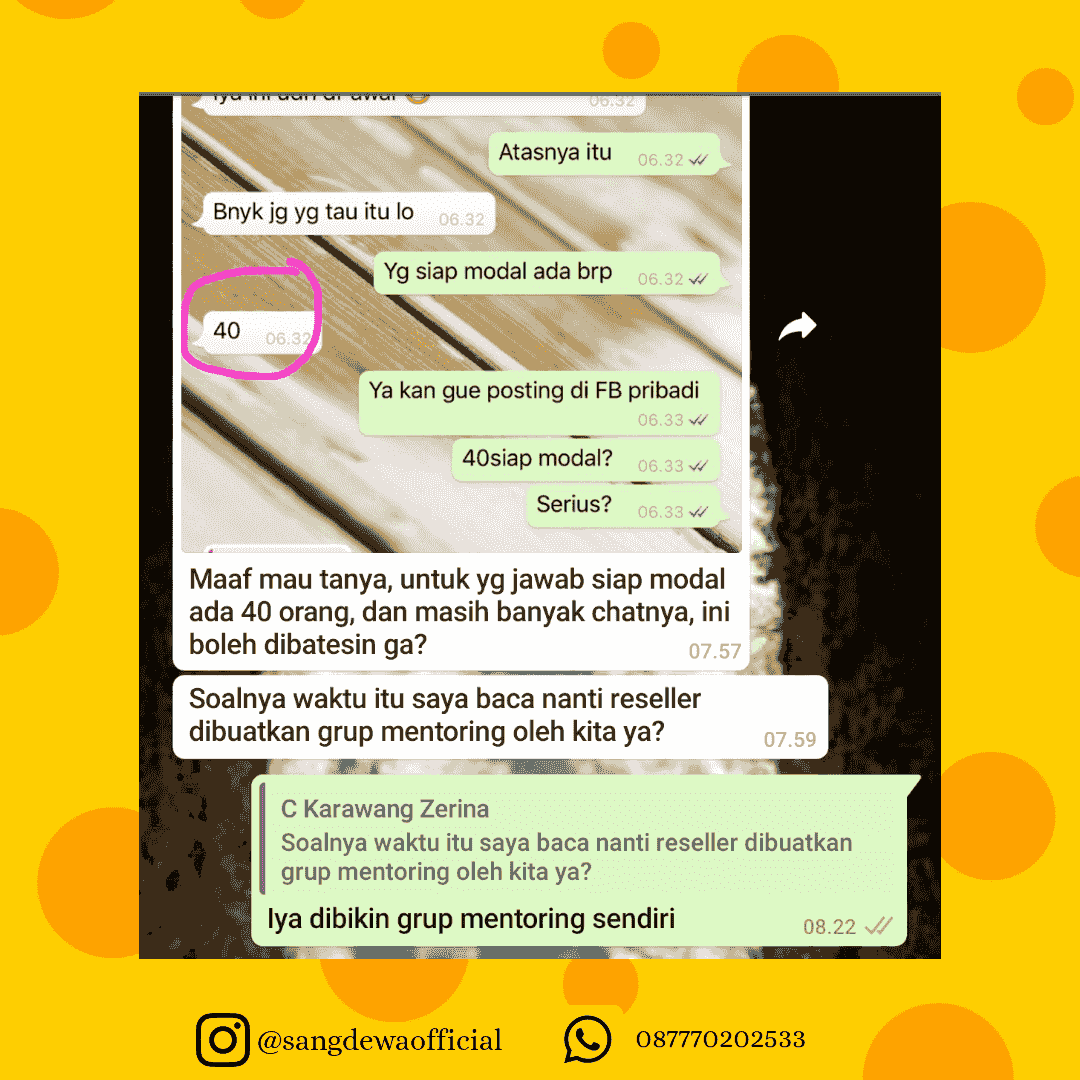
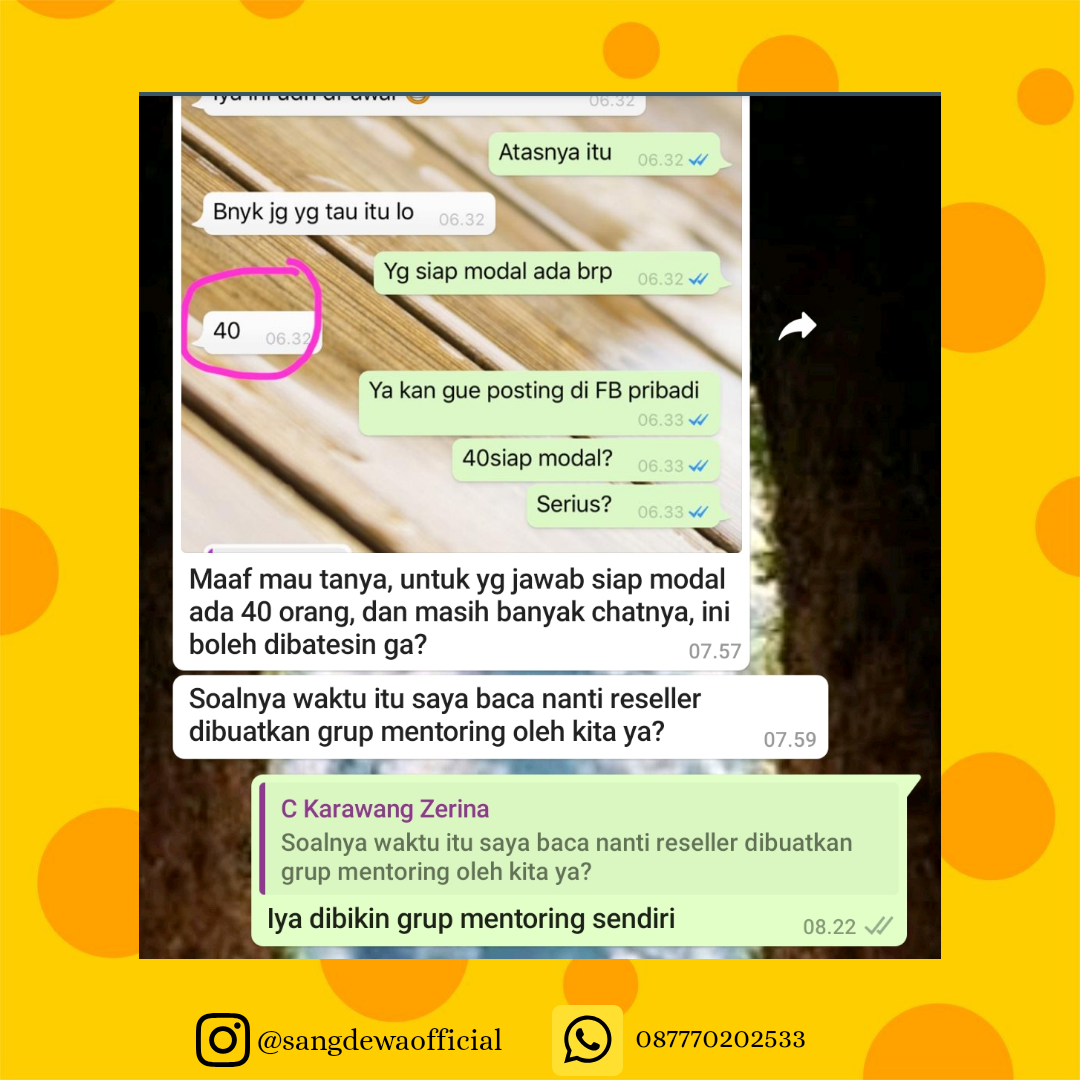
update image

diff --git a/produck.html b/produck.html
@@ -9,15 +9,13 @@
     <link rel="stylesheet" href="css/style.css">
     <link rel="stylesheet" href="css/all.css">
     <link rel="stylesheet" href="css/responsive.css">
-    <script>
-        let testimoni = ['20191023_055524_0000.png','20191023_083743_0000.png', '20191023_083847_0000.png', '20191027_070100_0000.png', '20191126_055618_0000.png', '20191126_055635_0000.png', '20191126_055804_0000.png', '20191126_055913_0000.png', '20191126_060241_0000.png', '20191126_060318_0000.png', '20191126_060338_0000.png', '20191126_062952_0000.png', '20191126_063148_0000.png', '20191126_213524_0000.png']
-    </script>
+    
 </head>
 <body>
     <nav class="navbar navbar-expand-lg navbar-dark fixed-top">
         <div class="container">
             <a class="navbar-brand" href="#">
-                <img src="image/Dewa-Snack.png" alt="">
+                <img src="image/Dewa-Snack.webp" alt="">
             </a>
             <button class="navbar-toggler" type="button" data-toggle="collapse" data-target="#navbarTogglerDemo02" aria-controls="navbarTogglerDemo02" aria-expanded="false" aria-label="Toggle navigation">
             <span class="navbar-toggler-icon"></span>
@@ -45,7 +43,7 @@
         <div class="ft-produck" id="switchbanner">
             
         </div>
-        <img src="image/table.png" class="tableproduck">
+        <img src="image/table.webp" class="tableproduck">
     </div>
 
     <div class="describe-produck">
@@ -74,7 +72,7 @@
                     </ul>
                 </div>
                 <div class="col-sm-5 image-descrip-product">
-                    <img src="image/product_sangdewa3.png" alt="">
+                    <img src="image/product_sangdewa3.webp" alt="">
                 </div>
             </div>
         </div>
@@ -144,7 +142,7 @@
                     </ul>
                 </div>
                 <div class="col-sm-5 image-descrip-product">
-                    <img src="image/tellaSparta.png" alt="">
+                    <img src="image/tellaSparta.webp" alt="">
                 </div>
             </div>
         </div>
@@ -161,25 +159,25 @@
                 </div>
                 <div class="col-sm-3">
                     <div class="bungkus">
-                        <img class="mx-auto text-center" src="image/B.png" alt="">
+                        <img class="mx-auto text-center" src="image/B.webp" alt="">
                     </div>
                     <p class="mx-auto text-center">SPARTAQUE</p>
                 </div>
                 <div class="col-sm-3">
                     <div class="bungkus">
-                        <img class="mx-auto text-center" src="image/C.png" alt="">
+                        <img class="mx-auto text-center" src="image/C.webp" alt="">
                     </div>
                     <p class="mx-auto text-center">SPARTA HOT SWEET</p>
                 </div>
                 <div class="col-sm-3">
                     <div class="bungkus">
-                        <img class="mx-auto text-center" src="image/A.png" alt="">
+                        <img class="mx-auto text-center" src="image/A.webp" alt="">
                     </div>
                     <p class="mx-auto text-center">SWEET SPARTA</p>
                 </div>
                 <div class="col-sm-3">
                     <div class="bungkus">
-                        <img class="mx-auto text-center" src="image/D.png" alt="">
+                        <img class="mx-auto text-center" src="image/D.webp" alt="">
                     </div>
                     <p class="mx-auto text-center">HOT SPARTA</p>
                 </div>
@@ -211,10 +209,10 @@
             if(!x.matches){
                 document.getElementById("switchbanner").innerHTML = `
                 <div class="d-flex justify-content-center container">
-                    <img src="image/D2.png" alt="" class="img-produck">
-                    <img src="image/D1.png" alt="" class="img-produck">
-                    <img src="image/D3.png" alt="" class="img-produck">
-                    <img src="image/D4.png" alt="" class="img-produck">
+                    <img src="image/D2.webp" alt="" class="img-produck">
+                    <img src="image/D1.webp" alt="" class="img-produck">
+                    <img src="image/D3.webp" alt="" class="img-produck">
+                    <img src="image/D4.webp" alt="" class="img-produck">
                 </div>
                 `;
             }
@@ -223,16 +221,16 @@
                 <div id="carouselExampleIndicators" class="carousel slide" data-ride="carousel">
                     <div class="carousel-inner">
                         <div class="carousel-item active">
-                            <img class="d-block w-100" src="image/D2.png" alt="First slide">
+                            <img class="d-block w-100" src="image/D2.webp" alt="First slide">
                         </div>
                         <div class="carousel-item">
-                            <img class="d-block w-100" src="image/D1.png" alt="Second slide">
+                            <img class="d-block w-100" src="image/D1.webp" alt="Second slide">
                         </div>
                         <div class="carousel-item">
-                            <img class="d-block w-100" src="image/D3.png" alt="Third slide">
+                            <img class="d-block w-100" src="image/D3.webp" alt="Third slide">
                         </div>
                         <div class="carousel-item">
-                            <img class="d-block w-100" src="image/D4.png" alt="Third slide">
+                            <img class="d-block w-100" src="image/D4.webp" alt="Third slide">
                         </div>
                     </div>
                     <a class="carousel-control-prev" href="#carouselExampleIndicators" role="button" data-slide="prev">

diff --git a/reseller.html b/reseller.html
@@ -17,7 +17,7 @@
     <nav class="navbar navbar-expand-lg navbar-dark fixed-top">
         <div class="container">
             <a class="navbar-brand" href="#">
-                <img src="image/Dewa-Snack.png" alt="">
+                <img src="image/Dewa-Snack.webp" alt="">
             </a>
             <button class="navbar-toggler" type="button" data-toggle="collapse" data-target="#navbarTogglerDemo02" aria-controls="navbarTogglerDemo02" aria-expanded="false" aria-label="Toggle navigation">
             <span class="navbar-toggler-icon"></span>
@@ -63,7 +63,7 @@
                         if(!x.matches){
                             document.getElementById("ganti").innerHTML = `
                                 <div class="col-sm-6 pt-5 pb-5" id="img-describe">
-                                    <img src="image/2.png" alt="">
+                                    <img src="image/2.webp" alt="">
                                 </div>
                                 <div class="col-sm-6 pt-5 pb-5">
                                     <h2>SNACK SANG DEWA</h2>
@@ -82,7 +82,7 @@
                                     </p>
                                 </div>
                                 <div class="col-sm-6 pt-5 pb-5" id="img-describe">
-                                    <img src="image/3.png" alt="">
+                                    <img src="image/3.webp" alt="">
                                 </div>
                             `;
                         }
@@ -111,7 +111,7 @@
                     </p>
                 </div>
                 <div class="col-sm-5">
-                    <img src="image/product_sangdewa2.png" alt="">
+                    <img src="image/product_sangdewa2.webp" alt="">
                 </div>
             </div>
         </div>
@@ -140,7 +140,7 @@
                     </p>
                 </div>
                 <div class="col-sm-5">
-                    <img src="image/5.png" alt="">
+                    <img src="image/5.webp" alt="">
                 </div>
             </div>
         </div>

diff --git a/index.html b/index.html
@@ -17,7 +17,7 @@
     <nav class="navbar navbar-expand-lg navbar-dark fixed-top">
         <div class="container">
             <a class="navbar-brand" href="#">
-                <img src="image/Dewa-Snack.png" alt="">
+                <img src="image/Dewa-Snack.webp" alt="">
             </a>
             <button class="navbar-toggler" type="button" data-toggle="collapse" data-target="#navbarTogglerDemo02" aria-controls="navbarTogglerDemo02" aria-expanded="false" aria-label="Toggle navigation">
             <span class="navbar-toggler-icon"></span>
@@ -44,8 +44,8 @@
             <p class="lead">DEWANYA PISANG DARI DEWA EKA PRAYOGA</p>
             <a class="btn btn-primary btn-lg btn-sm" href="#" role="button">Pesan Sekarang</a>
         </div>
-        <img src="image/product_sangdewa.png" class="i-produck">
-        <img src="image/table.png" class="table">
+        <img src="image/product_sangdewa.webp" class="i-produck">
+        <img src="image/table.webp" class="table">
     </div>
 
     <div class="describe">
@@ -105,7 +105,7 @@
                     </p>
                 </div>
                 <div class="col-sm-5">
-                    <img src="image/product_sangdewa2.png" alt="">
+                    <img src="image/product_sangdewa2.webp" alt="">
                 </div>
             </div>
         </div>
